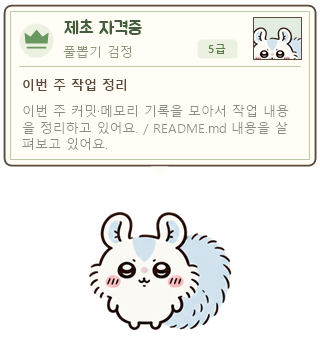
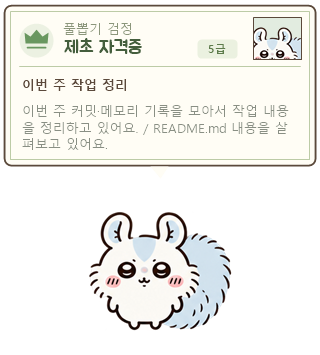
Swap Korean certificate title and subtitle positions

Changed region(s): [[0.1875, 0.031, 0.4375, 0.1859]]

diff --git a/ChiikawaDesktopPet.cs b/ChiikawaDesktopPet.cs
@@ -131,8 +131,8 @@ class Pet:Form {
   PointF[] crown={new PointF(25,43),new PointF(24,32),new PointF(30,36),new PointF(36,29),new PointF(42,36),new PointF(48,32),new PointF(47,43)};
   using(var brush=new SolidBrush(green))g.FillPolygon(brush,crown);
   using(var pen=new Pen(green,1.8f)){pen.StartCap=LineCap.Round;pen.EndCap=LineCap.Round;g.DrawLine(pen,27,47,45,47);}
-  using(var brush=new SolidBrush(Color.FromArgb(68,94,61)))using(var font=CertificateTypeface.Create(13.5f))g.DrawString("제초 자격증",font,brush,61,20);
-  using(var brush=new SolidBrush(Color.FromArgb(139,150,123)))using(var font=new Font("Malgun Gothic",9.5f,FontStyle.Regular))g.DrawString("풀뽑기 검정",font,brush,61,43);
+  using(var brush=new SolidBrush(Color.FromArgb(68,94,61)))using(var font=CertificateTypeface.Create(13.5f))g.DrawString("제초 자격증",font,brush,61,39);
+  using(var brush=new SolidBrush(Color.FromArgb(139,150,123)))using(var font=new Font("Malgun Gothic",9.5f,FontStyle.Regular))g.DrawString("풀뽑기 검정",font,brush,61,20);
   float badgeX=Width-123;
   using(var badge=new GraphicsPath()){
    badge.AddArc(badgeX,39,8,8,180,90);badge.AddArc(badgeX+32,39,8,8,270,90);
